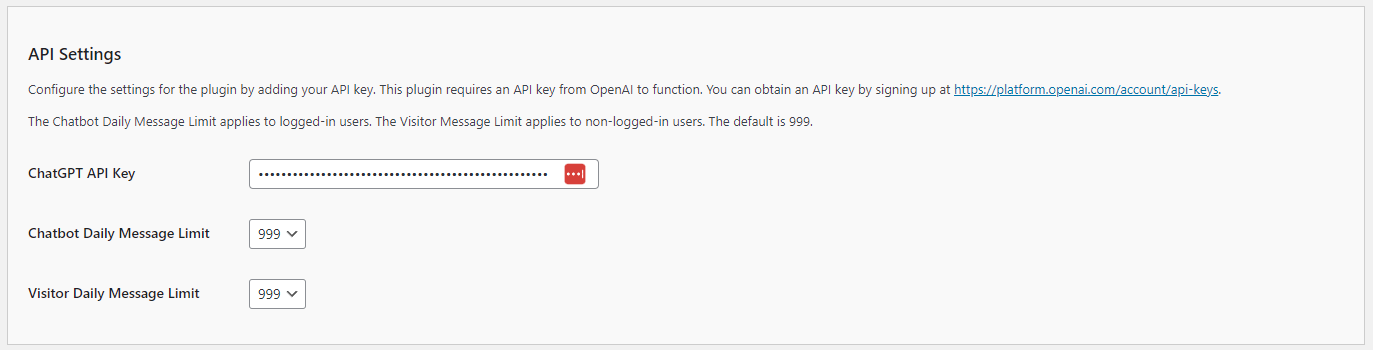
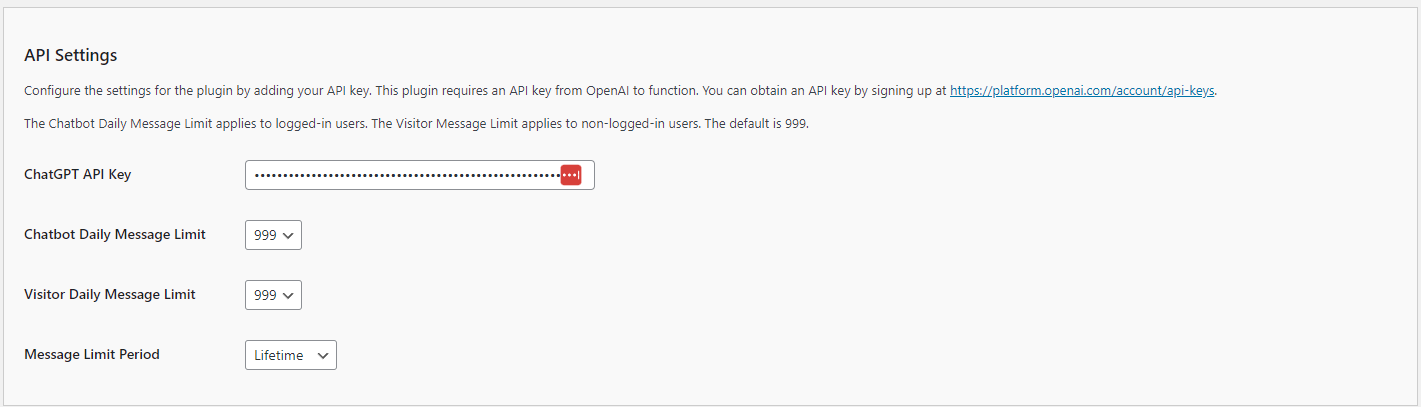
V2.1.6 - Working on query limits for visitors and non-visitors

diff --git a/assets/js/chatbot-chatgpt.js b/assets/js/chatbot-chatgpt.js
@@ -609,6 +609,17 @@ jQuery(document).ready(function ($) {
         return `<div>${markdown.trim()}</div>`;
     }
 
+    // Helper functions
+    function getWeekNumber(d) {
+        let oneJan = new Date(d.getFullYear(), 0, 1);
+        return Math.ceil((((d - oneJan) / 86400000) + oneJan.getDay() + 1) / 7);
+    }
+
+    function resetMessageCount(today) {
+        localStorage.setItem('chatbot_chatgpt_message_count', 0); // Reset the counter
+        localStorage.setItem('chatbot_chatgpt_last_reset', today); // Update last reset date
+    }
+
     // Submit the message when the submit button is clicked
     submitButton.on('click', function () {
 
@@ -620,14 +631,56 @@ jQuery(document).ready(function ($) {
             return;
         }
 
-        // Reset message count daily
-        let lastReset = localStorage.getItem('chatbot_chatgpt_last_reset');
-        let today = new Date().toDateString();
+        // Get current date and time
+        let now = new Date();
+        let today = now.toISOString().split('T')[0]; // Format as YYYY-MM-DD
+        let lastReset = localStorage.getItem('chatbot_chatgpt_last_reset') || today;
 
-        if (lastReset !== today) {
-            localStorage.setItem('chatbot_chatgpt_message_count', 0); // Reset the counter
-            localStorage.setItem('chatbot_chatgpt_last_reset', today); // Update last reset date
+        // Options: Hourly, Daily, Weekly, Monthly, Quarterly, Yearly, Lifetime
+        let messageLimitPeriod = localStorage.getItem('chatbot_chatgpt_message_limit_period_setting') || 'Daily';
+
+        if (messageLimitPeriod === 'Hourly') {
+            let lastResetHour = localStorage.getItem('chatbot_chatgpt_last_reset_hour') || '';
+            let currentHour = now.getHours();
+            if (lastResetHour !== currentHour.toString()) {
+                resetMessageCount(currentHour);
+                localStorage.setItem('chatbot_chatgpt_last_reset_hour', currentHour.toString());
+            }
+        } else if (messageLimitPeriod === 'Daily') {
+            if (lastReset !== today) {
+                resetMessageCount(today);
+            }
+        } else if (messageLimitPeriod === 'Weekly') {
+            let lastResetWeek = new Date(lastReset).getFullYear() + '-W' + getWeekNumber(new Date(lastReset));
+            let currentWeek = now.getFullYear() + '-W' + getWeekNumber(now);
+            if (lastResetWeek !== currentWeek) {
+                resetMessageCount(today);
+            }
+        } else if (messageLimitPeriod === 'Monthly') {
+            let lastResetMonth = new Date(lastReset).getFullYear() + '-' + (new Date(lastReset).getMonth() + 1);
+            let currentMonth = now.getFullYear() + '-' + (now.getMonth() + 1);
+            if (lastResetMonth !== currentMonth) {
+                resetMessageCount(today);
+            }
+        } else if (messageLimitPeriod === 'Quarterly') {
+            let lastResetQuarter = Math.floor((new Date(lastReset).getMonth() + 3) / 3);
+            let currentQuarter = Math.floor((now.getMonth() + 3) / 3);
+            if (lastResetQuarter !== currentQuarter || new Date(lastReset).getFullYear() !== now.getFullYear()) {
+                resetMessageCount(today);
+            }
+        } else if (messageLimitPeriod === 'Yearly') {
+            let lastResetYear = new Date(lastReset).getFullYear();
+            let currentYear = now.getFullYear();
+            if (lastResetYear !== currentYear) {
+                resetMessageCount(today);
+            }
+        } else if (messageLimitPeriod === 'Lifetime') {
+            // Do nothing
         }
+
+        console.log("Today:", today);
+        console.log("Last Reset:", lastReset);
+        console.log("Message Limit Period:", messageLimitPeriod);
 
         // Add +1 to the message count - Ver 1.9.6
         let messageCount = localStorage.getItem('chatbot_chatgpt_message_count') || 0;

diff --git a/assets/js/chatbot-chatgpt-local.js b/assets/js/chatbot-chatgpt-local.js
@@ -10,6 +10,7 @@ jQuery(document).ready(function ($) {
             'chatbot_chatgpt_last_reset',
             'chatbot_chatgpt_message_count',
             'chatbot_chatgpt_message_limit_setting',
+            'chatbot_chatgpt_message_limit_period_setting',
             'chatbot_chatgpt_start_status',
             'chatbot_chatgpt_start_status_new_visitor',
             'chatbot_chatgpt_opened',

diff --git a/includes/utilities/chatbot-markov-chain.php b/includes/utilities/chatbot-markov-chain.php
@@ -121,34 +121,39 @@ function buildMarkovChain($content) {
     $chunkData = [];  // This will store the temporary chunk data
     $currentChunk = '';
 
-    for ($i = 0; $i < count($words) - $chainLength; $i++) {
+    // Define how many words the "next phrase" should have - default is 2
+    $nextPhraseLength = esc_attr(get_option('chatbot_chatgpt_markov_chain_next_phrase_length', 2));
+
+    for ($i = 0; $i < count($words) - $chainLength - $nextPhraseLength + 1; $i++) {
 
         // Avoid out-of-bounds error
-        if (!isset($words[$i + $chainLength])) {
-            continue; // Skip iteration if the next word doesn't exist
+        if (!isset($words[$i + $chainLength + $nextPhraseLength - 1])) {
+            continue; // Skip iteration if the next phrase doesn't exist
         }
 
-        $key = implode(' ', array_slice($words, $i, $chainLength)); // Build key based on chain length
-        $nextWord = $words[$i + $chainLength];
-    
+        // Build the key based on the chain length
+        $key = implode(' ', array_slice($words, $i, $chainLength));
+        
+        // Build the next phrase by taking multiple words
+        $nextPhrase = implode(' ', array_slice($words, $i + $chainLength, $nextPhraseLength));
+        
         if (!isset($markovChain[$key])) {
             $markovChain[$key] = [];
         }
-    
+
         // Add to both $markovChain and the temporary $chunkData
-        $markovChain[$key][] = $nextWord;
-        $chunkData[$key][] = $nextWord;
-    
+        $markovChain[$key][] = $nextPhrase;
+        $chunkData[$key][] = $nextPhrase;
+
         // Serialize the temporary chunk data after it reaches the chunkSizeLimit
         $currentChunk = serialize($chunkData);
-    
-        if (strlen($currentChunk) >= $chunkSizeLimit || $i == count($words) - $chainLength - 1) {
+
+        if (strlen($currentChunk) >= $chunkSizeLimit || $i == count($words) - $chainLength - $nextPhraseLength) {
             // Save this chunk
             saveMarkovChainChunk($currentChunk, floor($i / $chainLength));
-    
+
             // Clear only the temporary chunk data, keep $markovChain intact
             $chunkData = [];
-            // back_trace( 'NOTICE', 'Chunk data cleared at iteration ' . $i);
         }
     }
 
@@ -193,6 +198,8 @@ function saveMarkovChainChunk($chunk, $chunkIndex) {
 // Generate a sentence using the Markov Chain
 function generateMarkovText($startWords = [], $length = 100) {
 
+    global $stopWords;
+
     // DIAG - Diagnostics - Ver 2.1.6
     back_trace( 'NOTICE', 'generateMarkovText - Start');
     back_trace( 'NOTICE', 'Requested Length: ' . $length);
@@ -208,6 +215,12 @@ function generateMarkovText($startWords = [], $length = 100) {
         return preg_replace('/[^\w\s]/', '', $word);
     }, $startWords);
 
+    // Remove stopwords from the start words
+    // $startWords = array_filter($startWords, function($word) {
+    //     global $stopWords;
+    //     return !in_array(strtolower($word), $stopWords);
+    // });
+
     // Trim the start words to the chain length
     // $startWords = array_slice($startWords, -$chatbot_chatgpt_markov_chain_length);
 
@@ -222,7 +235,7 @@ function generateMarkovText($startWords = [], $length = 100) {
     back_trace( 'NOTICE', 'Markov Chain Length: ' . count($markovChain));
     // How much memory is being used by the Markov Chain
     back_trace( 'NOTICE', 'Memory usage: ' . memory_get_usage());
-    back_trace( 'NOTICE', 'Memory usage in megabytes: ' . round(memory_get_usage() / 1024 / 1024, 2));
+    back_trace( 'NOTICE', 'Memory usage in megabytes: ' . round(memory_get_usage() / 1024 / 1024, 2) . 'M');
 
     // Check if the Markov Chain is empty or not
     if (empty($markovChain) || !is_array($markovChain)) {

diff --git a/includes/settings/chatbot-settings.php b/includes/settings/chatbot-settings.php
@@ -95,7 +95,8 @@ function chatbot_chatgpt_settings_page_html() {
                 //         let chatgptDisclaimerSettingInput = document.getElementById('chatbot_chatgpt_disclaimer_setting');
                 //         let chatgptMaxTokensSettingInput = document.getElementById('chatbot_chatgpt_max_tokens_setting');
                 //         let chatgptMessageLimitSettingInput = document.getElementById('chatbot_chatgpt_message_limit_setting');
-                //         let chatgptVisitorMessageLimitSettingInput = document.getElementById('chatbot_chatgpt_visitor_message_limit_setting');
+                //         let chatgptMessageLimitSettingPeriodInput = document.getElementById('chatbot_chatgpt_message_limit_setting_period');
+                //         let chatgptVisitorMessageLimitSettingInput = document.getElementById('chatbot_chatgpt_visitor_message_limit_period_setting');
                 //         let chatgptWidthSettingInput = document.getElementById('chatbot_chatgpt_width_setting');
                 //         let chatgptDiagnosticsSettingInput = document.getElementById('chatbot_chatgpt_diagnostics');
                 //         let chatgptAvatarIconSettingInput = document.getElementById('chatbot_chatgpt_avatar_icon_setting');
@@ -119,7 +120,8 @@ function chatbot_chatgpt_settings_page_html() {
                 //         // if(chatgptDisclaimerSettingInput) localStorage.setItem('chatbot_chatgpt_disclaimer_setting', chatgptDisclaimerSettingInput.value);
                 //         // if(chatgptMaxTokensSettingInput) localStorage.setItem('chatbot_chatgpt_max_tokens_setting', chatgptMaxTokensSettingInput.value);
                 //         // if(chatgptMessageLimitSettingInput) localStorage.setItem('chatbot_chatgpt_message_limit_setting', chatgptMessageLimitSettingInput.value);
-                //         // if(chatgptVisitorMessageLimitSettingInput) localStorage.setItem('chatbot_chatgpt_visitor_message_limit_setting', chatgptVisitorMessageLimitSettingInput.value);
+                //         // if(chatgptMessageLimitSettingPeriodInput) localStorage.setItem('chatbot_chatgpt_message_limit_setting_period', chatgptMessageLimitSettingPeriodInput.value);
+                //         // if(chatgptVisitorMessageLimitSettingInput) localStorage.setItem('chatbot_chatgpt_visitor_message_limit_period_setting', chatgptVisitorMessageLimitSettingInput.value);
                 //         // if(chatgptWidthSettingInput) localStorage.setItem('chatbot_chatgpt_width_setting', chatgptWidthSettingInput.value);
                 //         // if(chatgptAvatarIconSettingInput) localStorage.setItem('chatbot_chatgpt_avatar_icon_setting', chatgptAvatarIconSettingInput.value);
                 //         // if(chatgptCustomAvatarIconSettingInput) localStorage.setItem('chatbot_chatgpt_custom_avatar_icon_setting', chatgptCustomAvatarIconSettingInput.value);

diff --git a/includes/chatbot-shortcode.php b/includes/chatbot-shortcode.php
@@ -562,6 +562,7 @@ function chatbot_chatgpt_shortcode( $atts = [], $content = null, $tag = '' ) {
         'chatbot_chatgpt_force_page_reload' => esc_attr(get_option('chatbot_chatgpt_force_page_reload', 'No')),
         'chatbot_chatgpt_custom_error_message' => esc_attr(get_option('chatbot_chatgpt_custom_error_message', 'Your custom error message goes here.')),
         'chatbot_chatgpt_message_limit_setting' => esc_attr(get_option('chatbot_chatgpt_message_limit_setting', '999')),
+        'chatbot_chatgpt_message_limit_period_setting' => esc_attr(get_option('chatbot_chatgpt_message_limit_period_setting', 'Lifetime')),
     ));
 
     // back_trace( 'NOTICE', '$kchat_settings after array_merge: ' . print_r($kchat_settings, true));
@@ -877,6 +878,7 @@ function chatbot_chatgpt_shortcode( $atts = [], $content = null, $tag = '' ) {
                     'chatbot_chatgpt_last_reset',
                     'chatbot_chatgpt_message_count',
                     'chatbot_chatgpt_message_limit_setting',
+                    'chatbot_chatgpt_message_limit_period_setting',
                     'chatbot_chatgpt_start_status',
                     'chatbot_chatgpt_start_status_new_visitor',
                     'chatbot_chatgpt_opened',
@@ -1381,6 +1383,7 @@ function chatbot_chatgpt_shortcode_enqueue_script() {
                         'chatbot_chatgpt_last_reset',
                         'chatbot_chatgpt_message_count',
                         'chatbot_chatgpt_message_limit_setting',
+                        'chatbot_chatgpt_message_limit_period_setting',
                         'chatbot_chatgpt_start_status',
                         'chatbot_chatgpt_start_status_new_visitor',
                         'chatbot_chatgpt_opened',

diff --git a/chatbot-chatgpt.php b/chatbot-chatgpt.php
@@ -330,9 +330,11 @@ function chatbot_chatgpt_enqueue_scripts() {
     if (is_user_logged_in()) {
         // back_trace( 'NOTICE', 'User is logged in');
         $kchat_settings['chatbot_chatgpt_message_limit_setting'] = esc_attr(get_option('chatbot_chatgpt_message_limit_setting', '999'));
+        $kchat_settings['chatbot_chatgpt_message_limit_period_setting'] = esc_attr(get_option('chatbot_chatgpt_message_limit_period_setting', 'Lifetime'));
     } else {
         // back_trace( 'NOTICE', 'User is NOT logged in');
         $kchat_settings['chatbot_chatgpt_message_limit_setting'] = esc_attr(get_option('chatbot_chatgpt_visitor_message_limit_setting', '999'));
+        $kchat_settings['chatbot_chatgpt_message_limit_period_setting'] = esc_attr(get_option('chatbot_chatgpt_message_limit_period_setting', 'Lifetime'));
     }
 
     // Localize the data for the chatbot - Ver 2.1.1.1
@@ -355,7 +357,6 @@ function chatbot_chatgpt_enqueue_scripts() {
         'chatbot_chatgpt_avatar_greeting_setting' => esc_attr(get_option('chatbot_chatgpt_avatar_greeting_setting', 'Howdy!!! Great to see you today! How can I help you?')),
         'chatbot_chatgpt_force_page_reload' => esc_attr(get_option('chatbot_chatgpt_force_page_reload', 'No')),
         'chatbot_chatgpt_custom_error_message' => esc_attr(get_option('chatbot_chatgpt_custom_error_message', 'Your custom error message goes here.')),
-        'chatbot_chatgpt_message_limit_setting' => esc_attr(get_option('chatbot_chatgpt_message_limit_setting', '999')),
     ));
     
     $kchat_settings_json = wp_json_encode($kchat_settings);

diff --git a/widgets/chatbot-chatgpt-widget-endpoint.php b/widgets/chatbot-chatgpt-widget-endpoint.php
@@ -125,10 +125,12 @@ $chatbot_html = do_shortcode('[' . esc_html($shortcode_param) . ']');
 if (is_user_logged_in()) {
 
     $kchat_settings['chatbot_chatgpt_message_limit_setting'] = esc_attr(get_option('chatbot_chatgpt_message_limit_setting', '999'));
+    $kchat_settings['chatbot_chatgpt_message_limit_setting_period'] = esc_attr(get_option('chatbot_chatgpt_message_limit_period_setting', 'Lifetime'));
 
 } else {
 
     $kchat_settings['chatbot_chatgpt_message_limit_setting'] = esc_attr(get_option('chatbot_chatgpt_visitor_message_limit_setting', '999'));
+    $kchat_settings['chatbot_chatgpt_message_limit_setting_period'] = esc_attr(get_option('chatbot_chatgpt_message_limit_period_setting', 'Lifetime'));
     
 }
 
@@ -154,7 +156,6 @@ $kchat_settings = array_merge($kchat_settings,array(
     'chatbot_chatgpt_avatar_greeting_setting' => esc_attr(get_option('chatbot_chatgpt_avatar_greeting_setting', 'Howdy!!! Great to see you today! How can I help you?')),
     'chatbot_chatgpt_force_page_reload' => esc_attr(get_option('chatbot_chatgpt_force_page_reload', 'No')),
     'chatbot_chatgpt_custom_error_message' => esc_attr(get_option('chatbot_chatgpt_custom_error_message', 'Your custom error message goes here.')),
-    'chatbot_chatgpt_message_limit_setting' => esc_attr(get_option('chatbot_chatgpt_message_limit_setting', '999')),
     'chatbot_chatgpt_start_status' => esc_attr(get_option('chatbot_chatgpt_start_status', 'closed')),
     'chatbot_chatgpt_start_status_new_visitor' => esc_attr(get_option('chatbot_chatgpt_start_status_new_visitor', 'closed')),
     ));

diff --git a/includes/settings/chatbot-settings-api-model.php b/includes/settings/chatbot-settings-api-model.php
@@ -125,6 +125,23 @@ function chatbot_chatgpt_visitor_message_limit_setting_callback($args) {
     <?php
 }
 
+// Limit Period Setting - Ver 2.1.6
+function chatbot_chatgpt_message_limit_period_setting_callback($args) {
+    // Options: Hourly, Daily, Weekly, Monthly, Quarterly, Yearly, Lifetime
+    $message_limit_period = esc_attr(get_option('chatbot_chatgpt_message_limit_period_setting', 'Lifetime'));
+    ?>
+    <select id="chatbot_chatgpt_message_limit_period_setting" name="chatbot_chatgpt_message_limit_period_setting">
+        <option value="Hourly" <?php selected($message_limit_period, 'Hourly'); ?>>Hourly</option>
+        <option value="Daily" <?php selected($message_limit_period, 'Daily'); ?>>Daily</option>
+        <option value="Weekly" <?php selected($message_limit_period, 'Weekly'); ?>>Weekly</option>
+        <option value="Monthly" <?php selected($message_limit_period, 'Monthly'); ?>>Monthly</option>
+        <option value="Quarterly" <?php selected($message_limit_period, 'Quarterly'); ?>>Quarterly</option>
+        <option value="Yearly" <?php selected($message_limit_period, 'Yearly'); ?>>Yearly</option>
+        <option value="Lifetime" <?php selected($message_limit_period, 'Lifetime'); ?>>Lifetime</option>
+    </select>
+    <?php
+}
+
 // OpenAI Models
 // https://platform.openai.com/docs/models
 // EXPAND THE LIST OF MODELS STARTING WITH V1.9.4 - 2024 03 24

diff --git a/includes/settings/chatbot-settings-registration-api.php b/includes/settings/chatbot-settings-registration-api.php
@@ -28,6 +28,7 @@ function chatbot_chatgpt_api_settings_init() {
     register_setting('chatbot_chatgpt_api_model', 'chatbot_chatgpt_api_key', 'sanitize_api_key');
     register_setting('chatbot_chatgpt_api_model', 'chatbot_chatgpt_message_limit_setting');
     register_setting('chatbot_chatgpt_api_model', 'chatbot_chatgpt_visitor_message_limit_setting');
+    register_setting('chatbot_chatgpt_api_model', 'chatbot_chatgpt_message_limit_period_setting');
 
     add_settings_section(
         'chatbot_chatgpt_api_model_general_section',
@@ -56,6 +57,14 @@ function chatbot_chatgpt_api_settings_init() {
         'chatbot_chatgpt_visitor_message_limit_setting',
         'Visitor Daily Message Limit',
         'chatbot_chatgpt_visitor_message_limit_setting_callback',
+        'chatbot_chatgpt_api_model_general',
+        'chatbot_chatgpt_api_model_general_section'
+    );
+
+    add_settings_field(
+        'chatbot_chatgpt_message_limit_period_setting',
+        'Message Limit Period',
+        'chatbot_chatgpt_message_limit_period_setting_callback',
         'chatbot_chatgpt_api_model_general',
         'chatbot_chatgpt_api_model_general_section'
     );

diff --git a/documentation/api-model-settings/api-settings.md b/documentation/api-model-settings/api-settings.md
@@ -19,6 +19,22 @@ The **Kognetiks Chatbot for WordPress** plugin requires proper configuration to 
    - **Default Value**: The default limit is set to 999 messages per day.
    - **Customization**: You can adjust this number based on your needs. Enter the desired limit in the provided field.
 
+4. **Message Limit Period**:
+   - **Description**:This setting defines the time period during which non-logged-in users (visitors) and logged-in users can send messages to the chatbot. It allows you to manage how often users can interact with the chatbot and helps regulate API usage and associated costs.
+   - **Default Value**: By default, users are allowed to send up to 999 messages per day.
+   - **Customization**: You can customize the number of allowed messages and the reset period based on your specific needs. Enter the desired message limit in the provided field. The following time periods are available for customization:
+   
+      - **Hourly**: Resets the message count every hour, providing a more granular control over usage within a single day. This is useful if you want to limit message bursts within short time frames.
+      - **Daily**: Resets the message count once per day. This is the most common setting, providing users with a fixed number of messages each day.
+      - **Weekly**: Resets the message count once every week. This can help spread out usage over a longer period, ideal for scenarios where more extended engagement is anticipated.
+      - **Monthly**: Resets the message count at the start of each month. Useful for managing API usage on a month-to-month basis, ensuring that your usage aligns with monthly API cost limits.
+      - **Quarterly**: Resets the message count every three months. This option is useful for managing seasonal fluctuations in chatbot usage.
+      - **Yearly**: Resets the message count once per year. This is ideal for long-term planning and budgeting for API usage.
+   - **NOTE**: Lifetime: No reset occurs. This option allows unlimited messages over a user's lifetime, which can be useful for creating limited-time access.
+
+
+
+
 ## Steps to Configure
 
 1. Navigate to the API Settings section of the Kognetiks Chatbot plugin in your WordPress dashboard.
